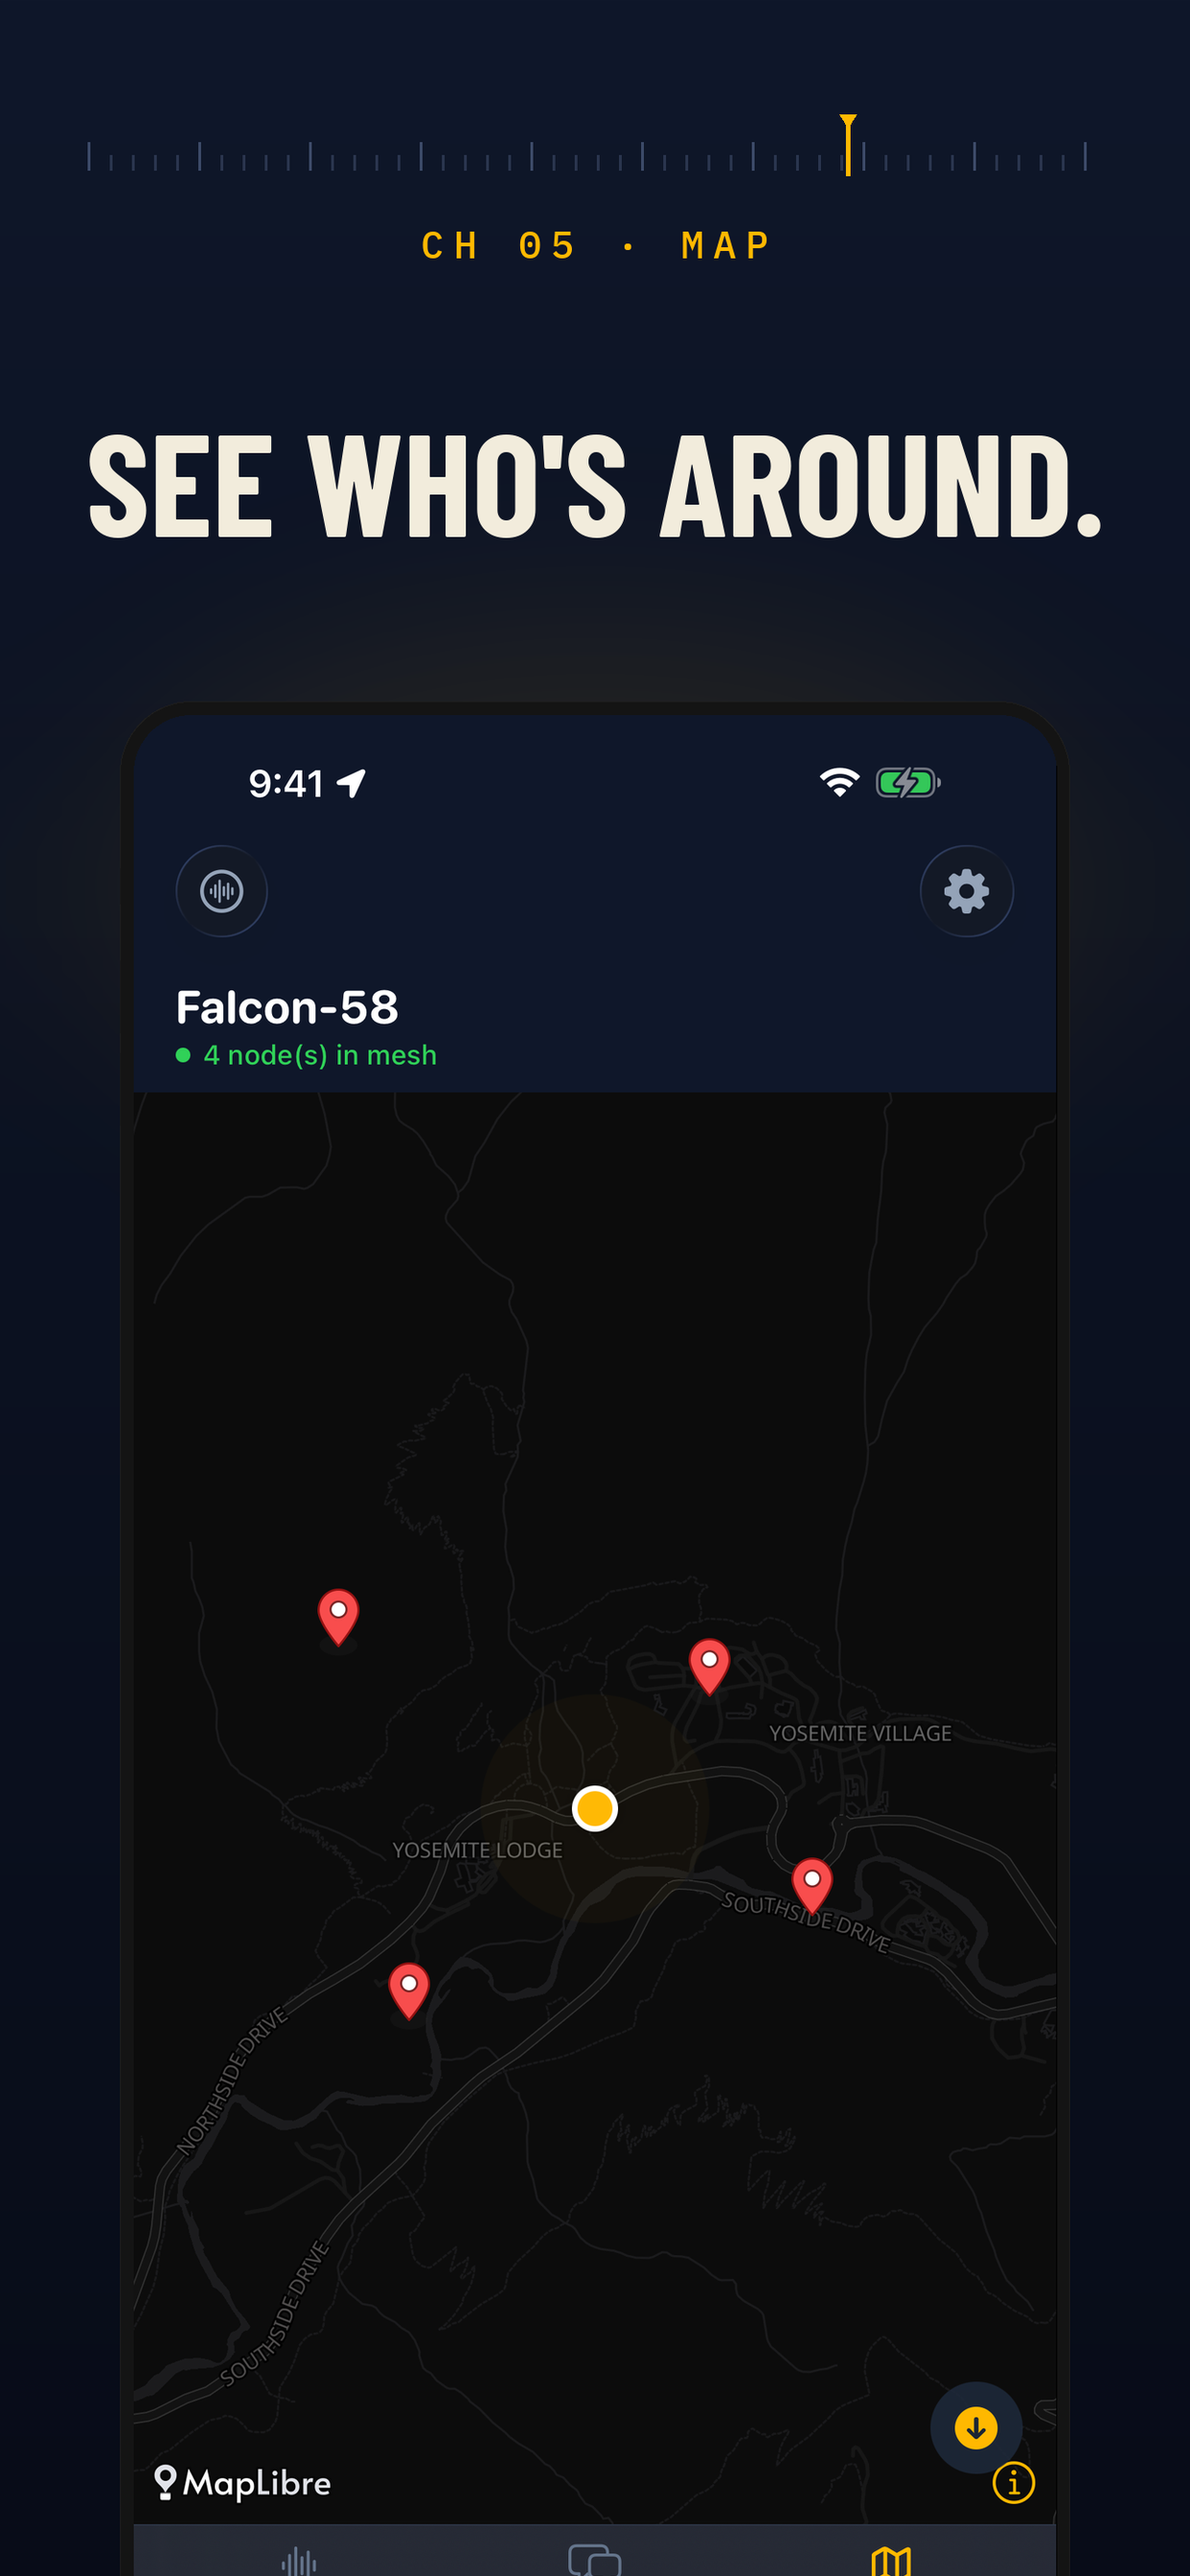
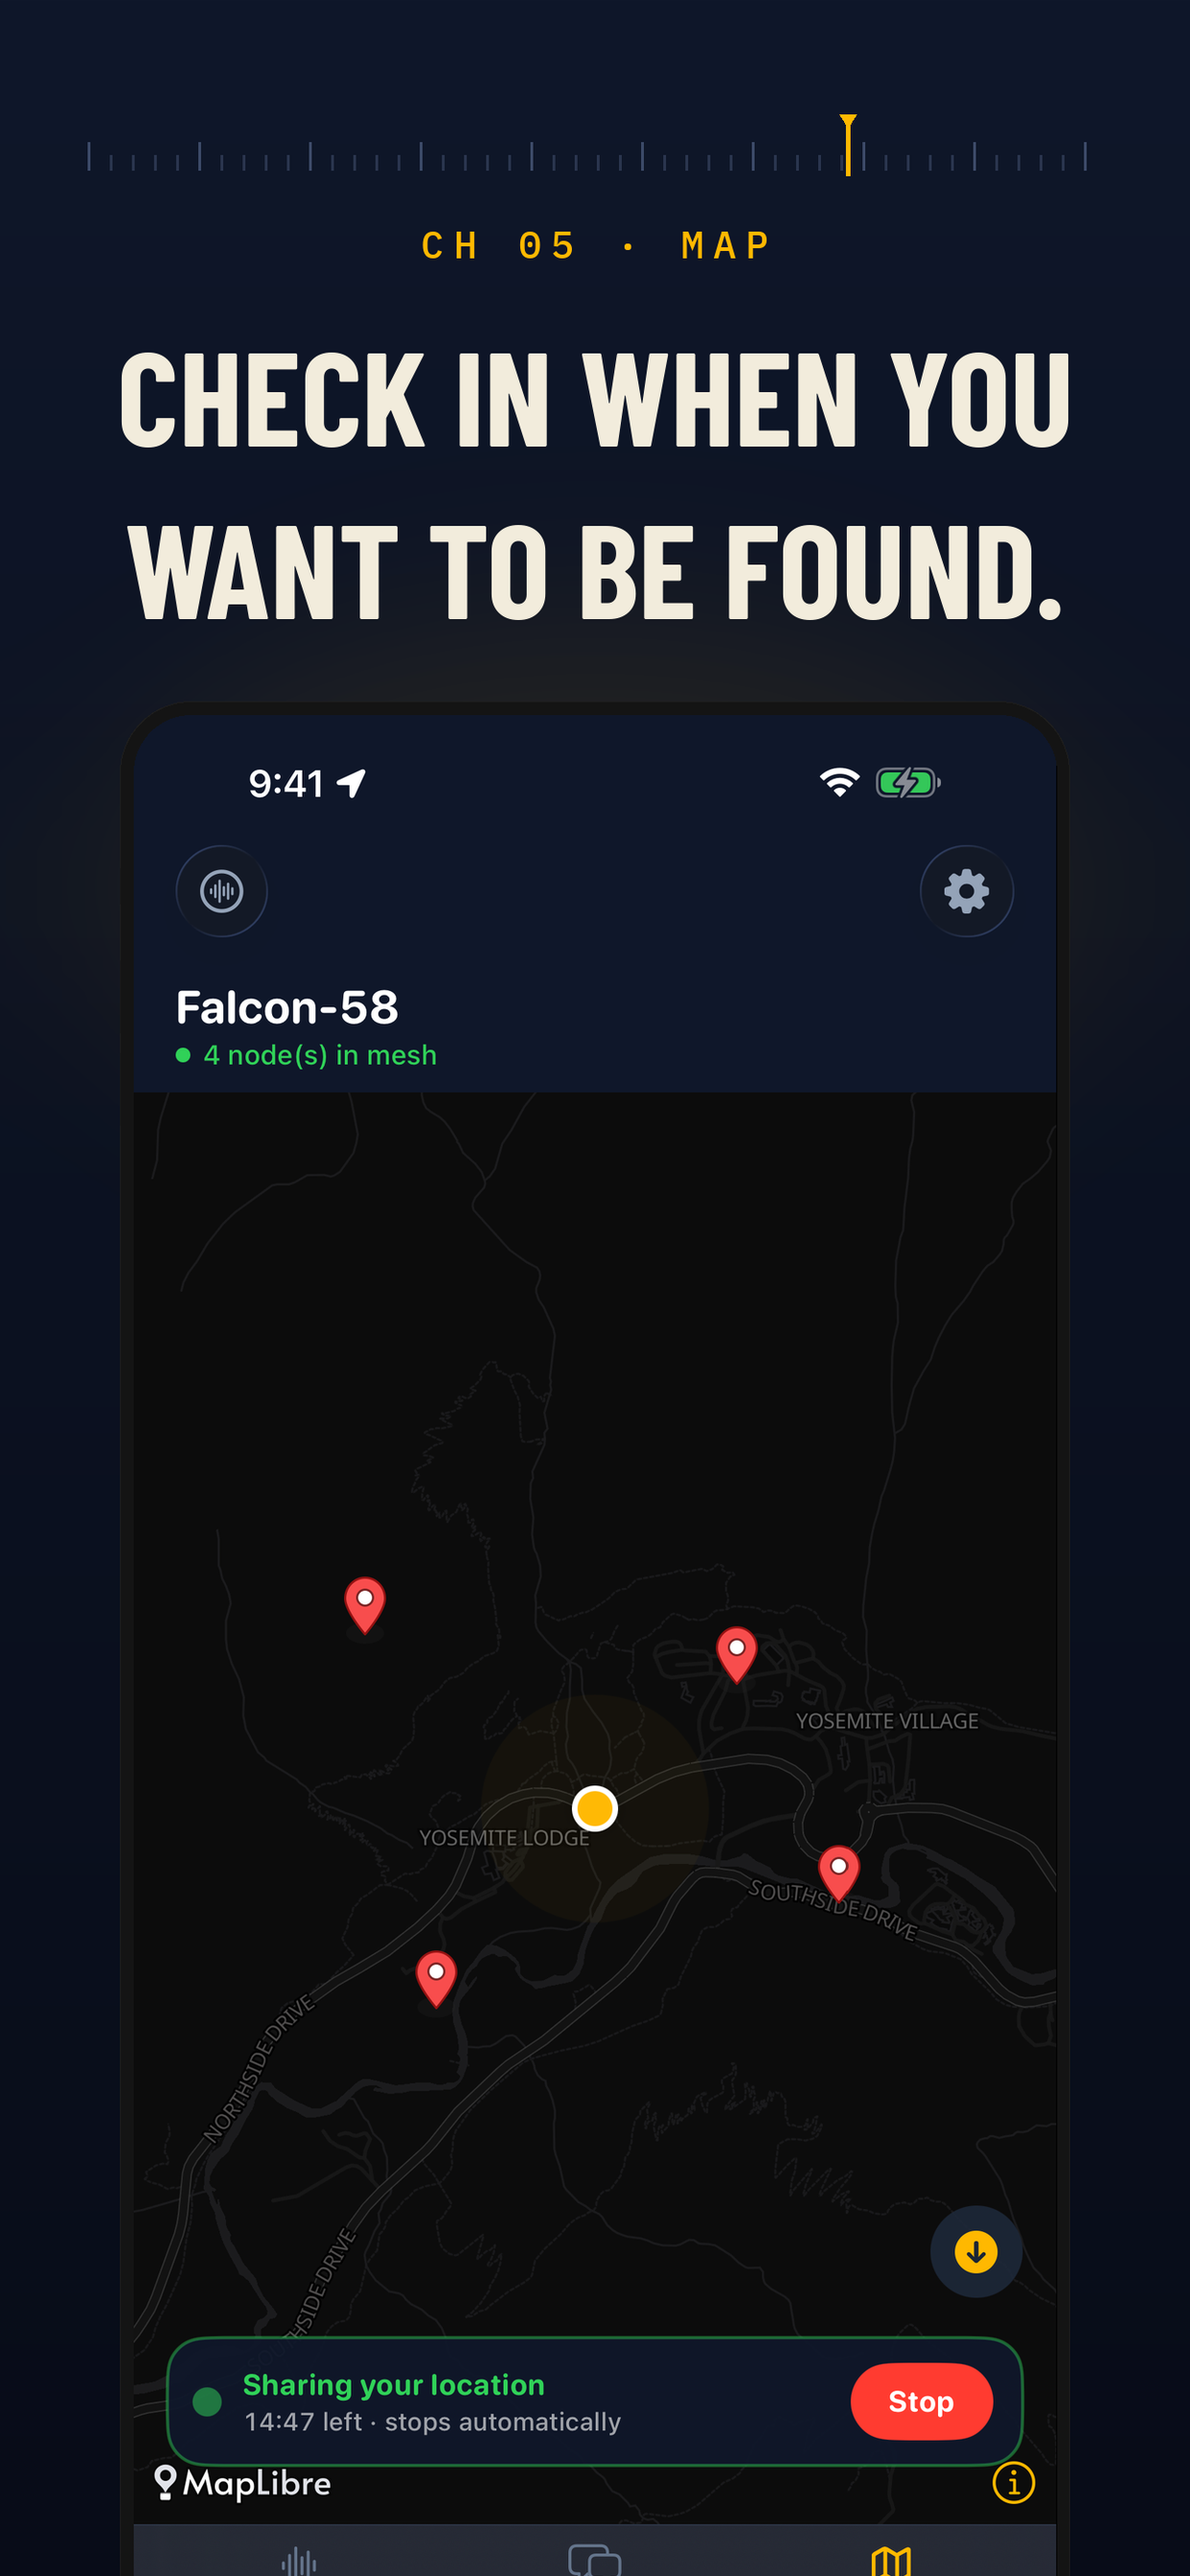
docs(review): tell the reviewer, the store and the policy pages the same story
Review notes now answer Apple's five 5.1.2(i) bullets in order and say where
each one is visible in the UI, including that points 3-5 can all be checked on
a single device — the previous notes opened with "you need TWO devices", which
made the parts of the app under review look harder to reach than they are.

Screenshot 05 recaptured: the Map tab now carries the sharing indicator and
countdown, so the old shot no longer showed the shipping UI. ScreenshotSeed
starts a real check-in through the real gate (DEBUG + launch-argument gated,
as everything in that file is) so the shot shows the live state rather than
the checked-out one, and the headline says what the feature now is.

screenshots/capture.sh is added rather than changed: ScreenshotTests has
referenced it by name since the set was first built, but it was never
committed, so a recapture meant reconstructing the simulator setup from a doc
comment. Recovering it cost a wasted capture — the simulated fix has to be the
centroid of the seeded peers or the map opens hundreds of miles from every
pin, which is exactly the kind of thing the script exists to remember.

Claude-Session: https://claude.ai/code/session_01Aqc2ML1DHbWvdeN11dM5qG

diff --git a/Chirp/Sources/App/ScreenshotSeed.swift b/Chirp/Sources/App/ScreenshotSeed.swift
@@ -18,6 +18,13 @@ enum ScreenshotSeed {
         let args = ProcessInfo.processInfo.arguments
         guard args.contains("--screenshot-seed") else { return }
 
+        // Put the capture device on the map the same way a user does — the
+        // real check-in, through the real gate — so the Map shot shows the
+        // live sharing indicator rather than the checked-out empty state.
+        // DEBUG-only and launch-argument gated, like everything else here, so
+        // it cannot change what a shipped binary does.
+        appState.locationSharing.beginCheckIn()
+
         let channel = seedChannel(appState)
         seedPeers(appState, channelID: channel.id)
         seedMessages(appState, channelID: channel.id)

diff --git a/appstore_compose.py b/appstore_compose.py
@@ -62,7 +62,7 @@ SHOTS = [
     ("02-mesh", "MESH", "Phones nearby form the network."),
     ("03-messages", "TEXT", "Text when you can't talk."),
     ("04-voice", "VOICE", "Leave a message for when they're back."),
-    ("05-map", "MAP", "See who's around."),
+    ("05-map", "MAP", "Check in when you want to be found."),
     ("06-privacy", "SECURE", "Encrypted between channel members. Nothing leaves your phone."),
 ]
 
